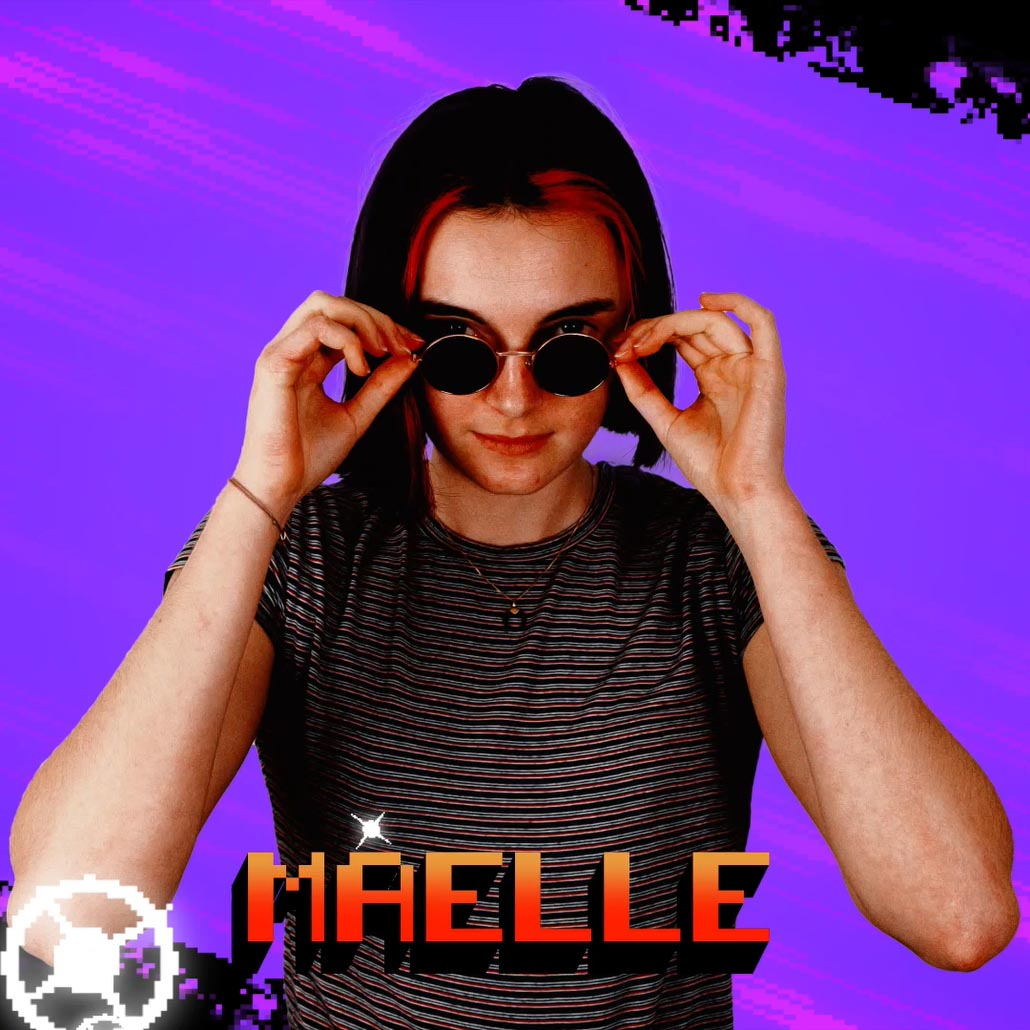
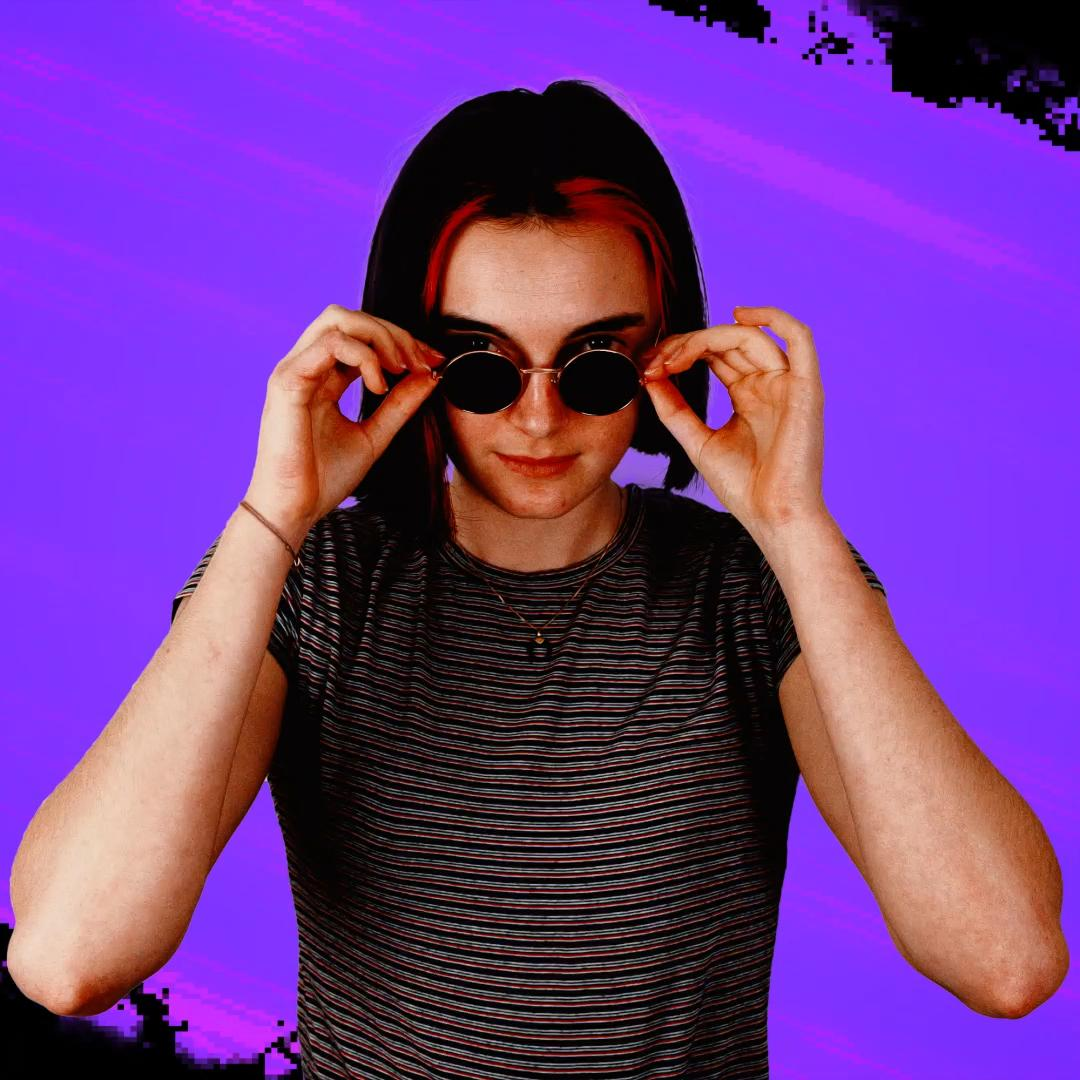
new images

diff --git a/frontend/src/routes/register/decoration.js b/frontend/src/routes/register/decoration.js
@@ -27,7 +27,7 @@ const Decoration = ({ isReveal }) => {
           {characters.map(character =>
             (
               <figure>
-                <img alt={character.name} src={`/assets/profile_pics/square/${character.identifier}.jpg`} />
+                <img alt={character.name} src={`/assets/profile_pics/square_names/${character.identifier}.jpg`} />
               </figure>
             )
           )}
